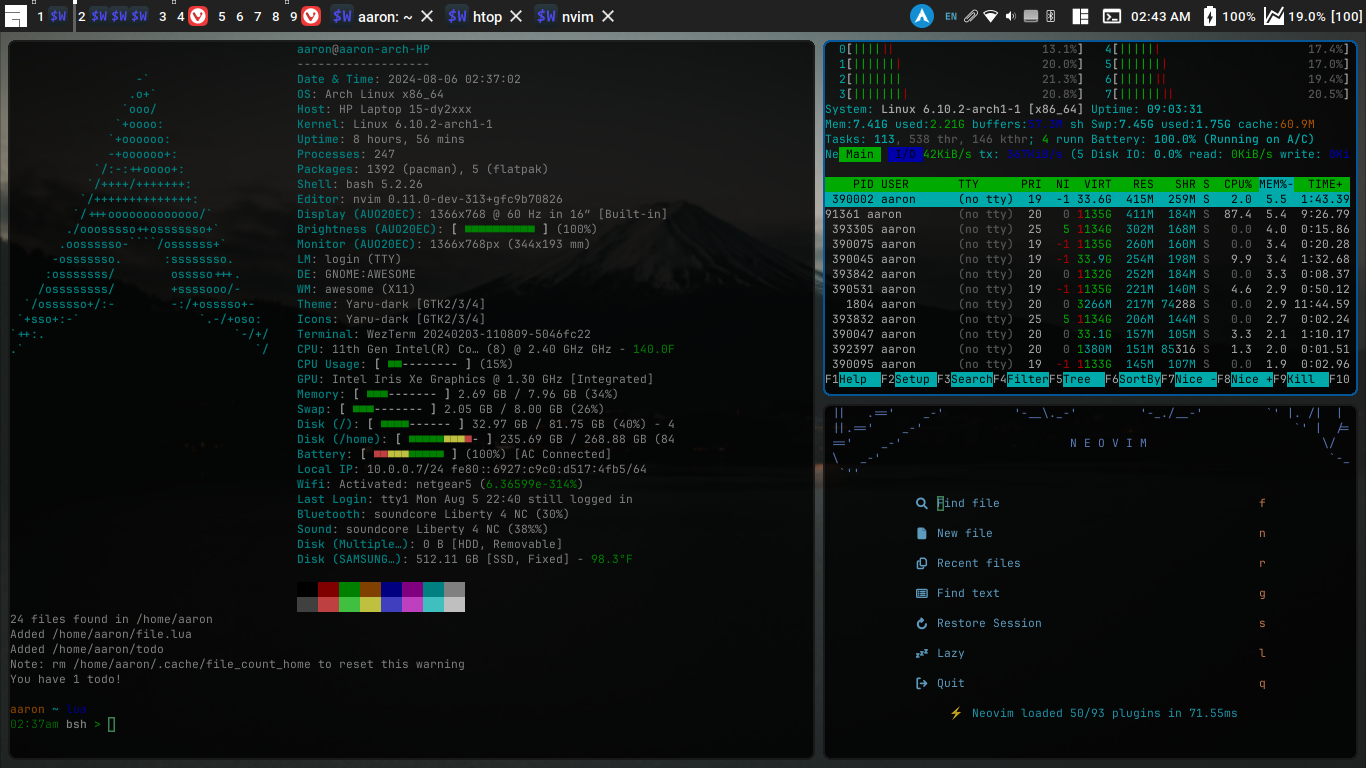
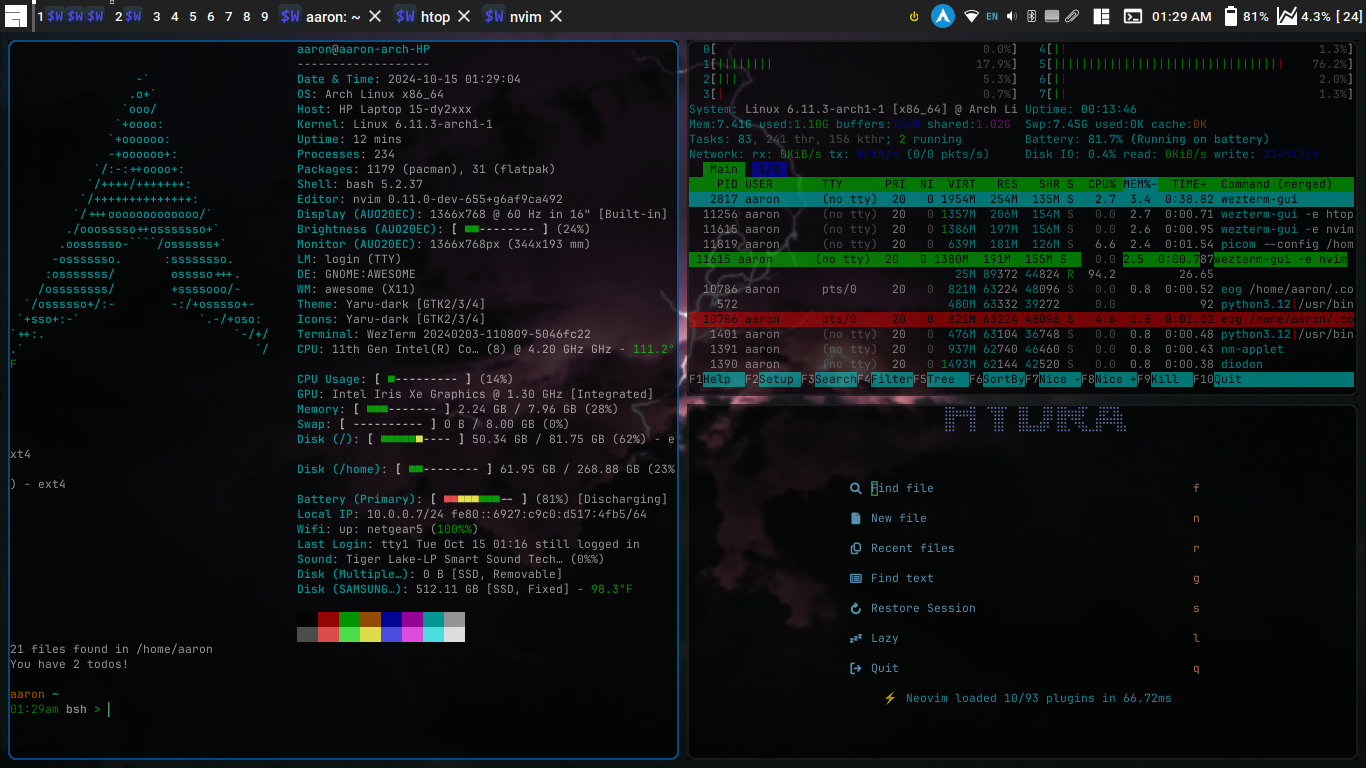
feat: update screenshots / add shortcut menu
Former-commit-id: 76f64256f1b29f2fb947799930dac5bef04b9cae

diff --git a/README.tmpl.md b/README.tmpl.md
@@ -9,10 +9,9 @@ If you notice any issues, please create an issue or PR!
 An almost desktop environment made with [AwesomeWM](https://awesomewm.org/) with a performant opinionated keyboard workflow to increase daily productivity and comfort.
 
 ![](./theme/images/demo.png)
-
-|             Fullscreen             |        Rofi Launcher         |             Exit Screen             |
-| :--------------------------------: | :--------------------------: | :---------------------------------: |
-| ![](./theme/images/fullscreen.png) | ![](./theme/images/rofi.png) | ![](./theme/images/exit-screen.png) |
+| Full Screen | Rofi Launcher | Exit Screen | Shortcut Menu |
+| :---------: | :-----------: | :---------: | :-----------: |
+| ![](./theme/images/fullscreen.png) | ![](./theme/images/rofi.png) | ![](./theme/images/exit-screen.png) | ![](./theme/images/shortcut-menu.png) |
 
 ## Installation
 
